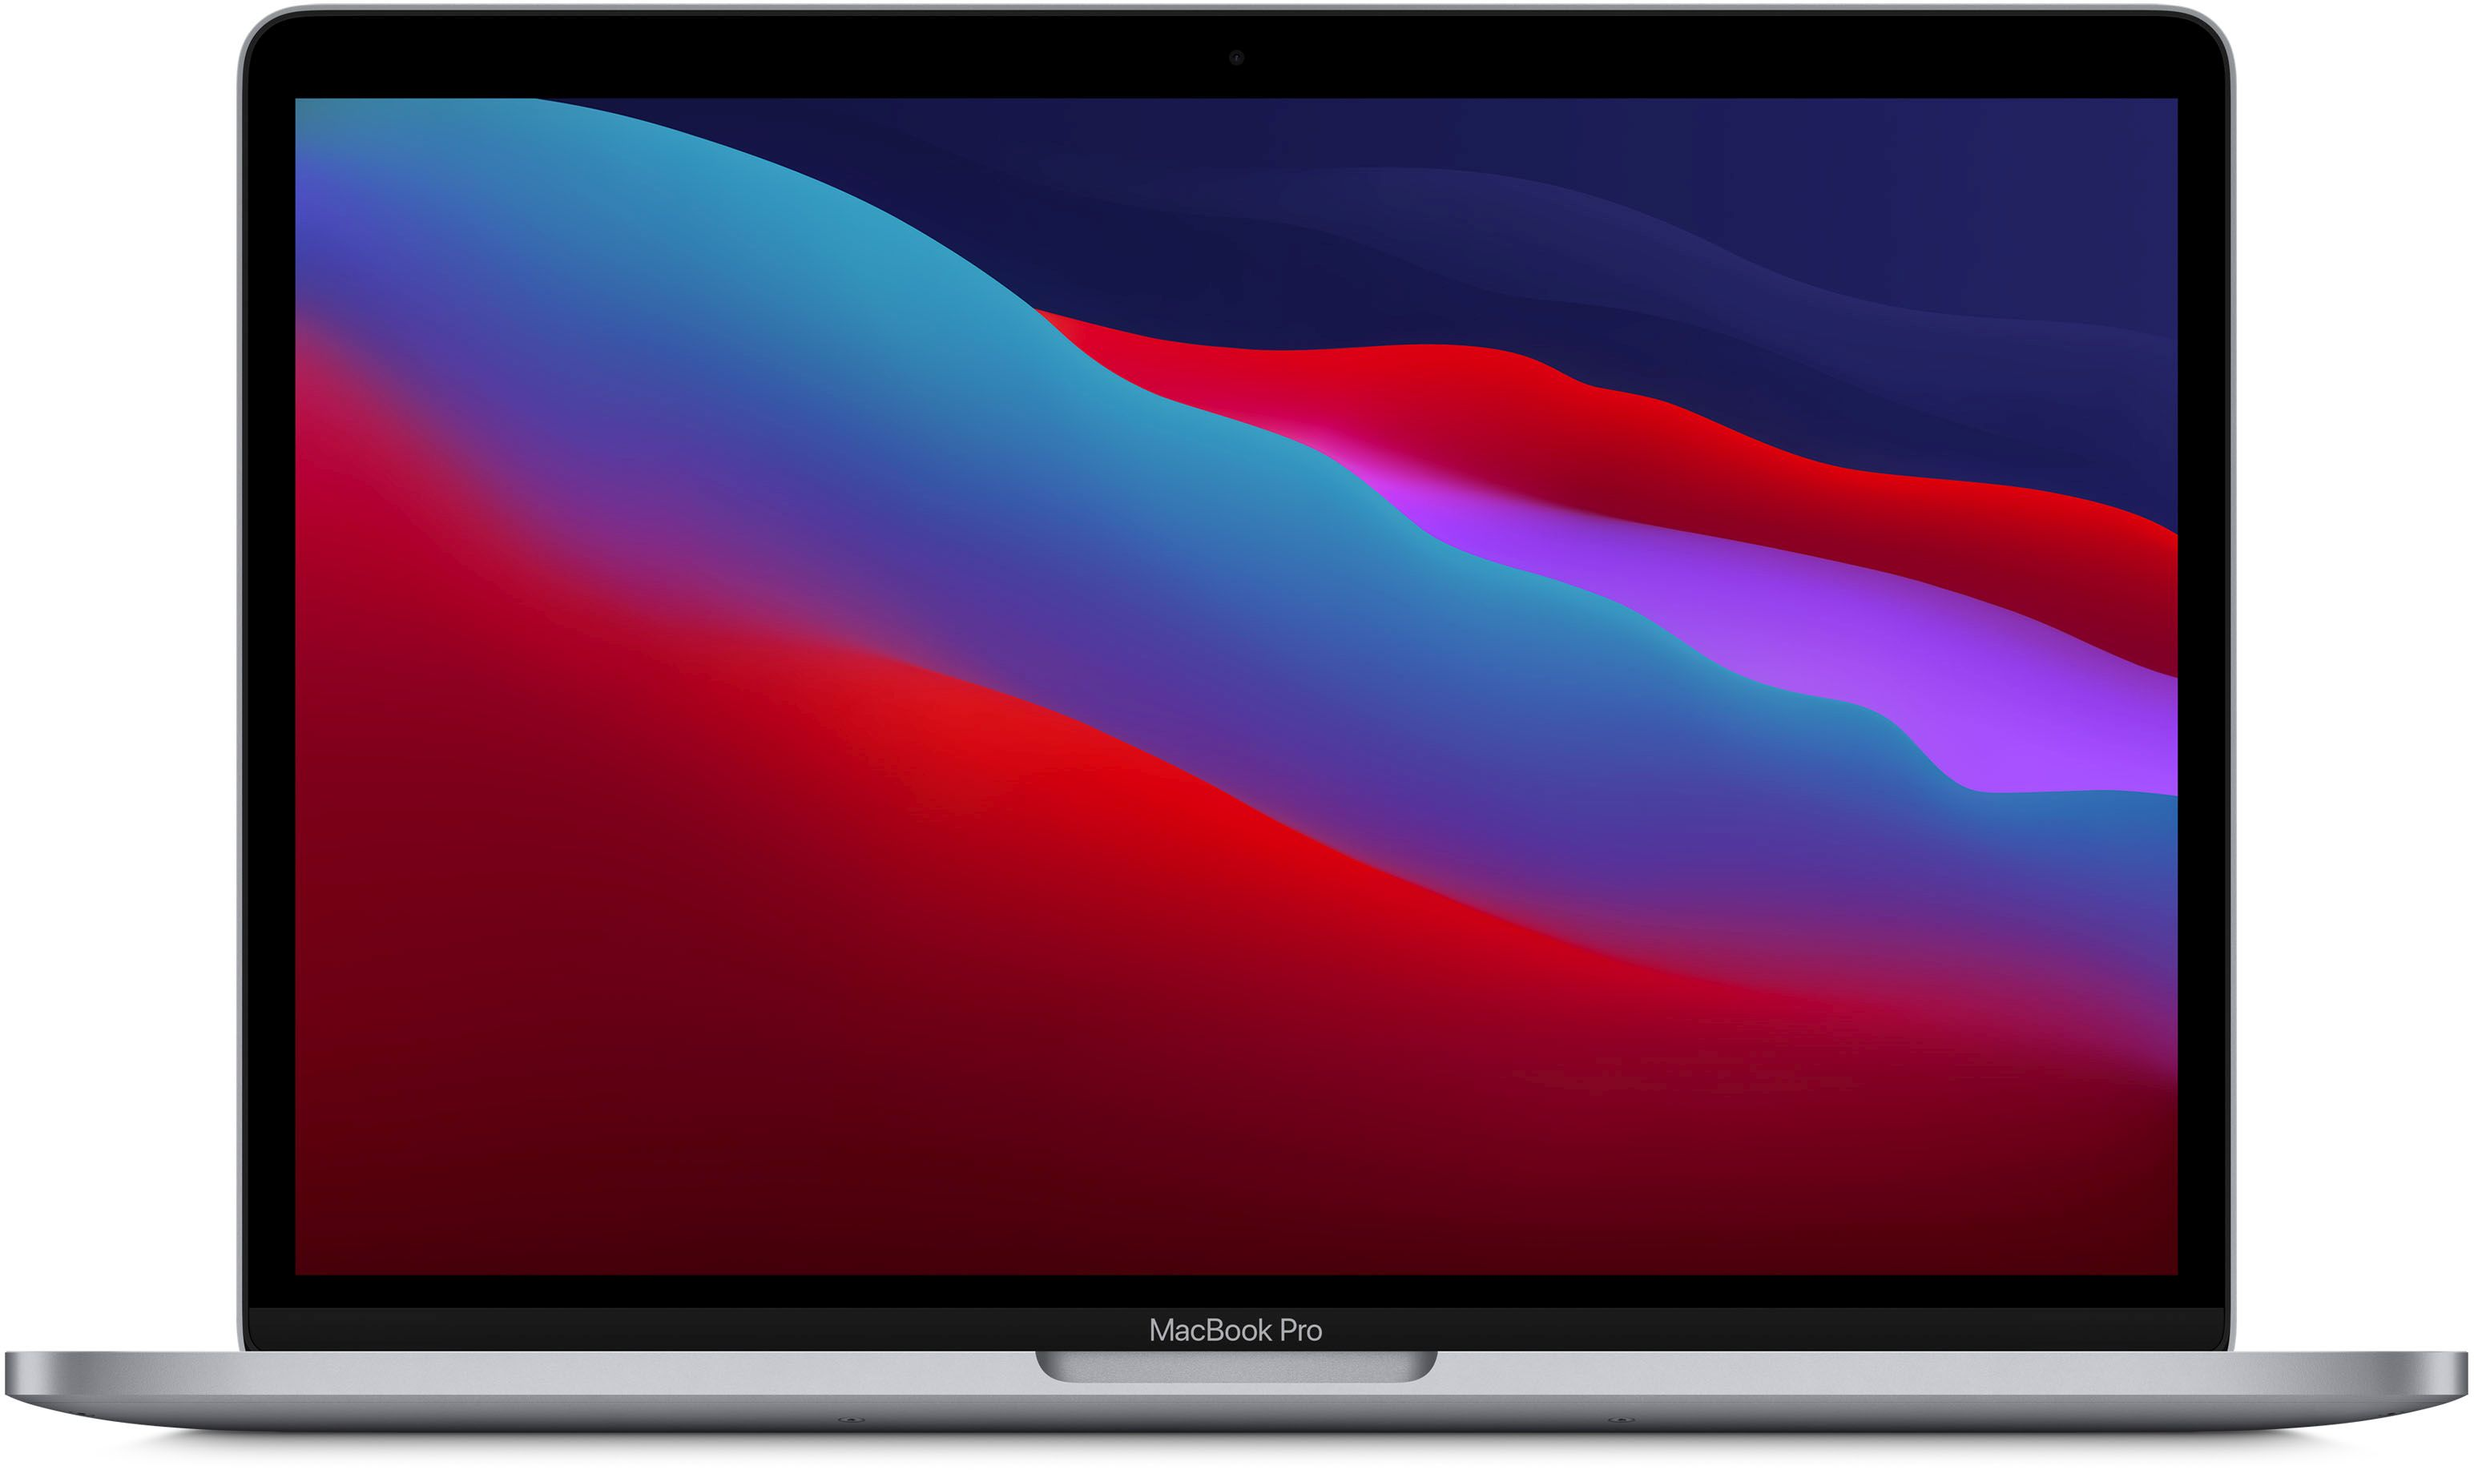
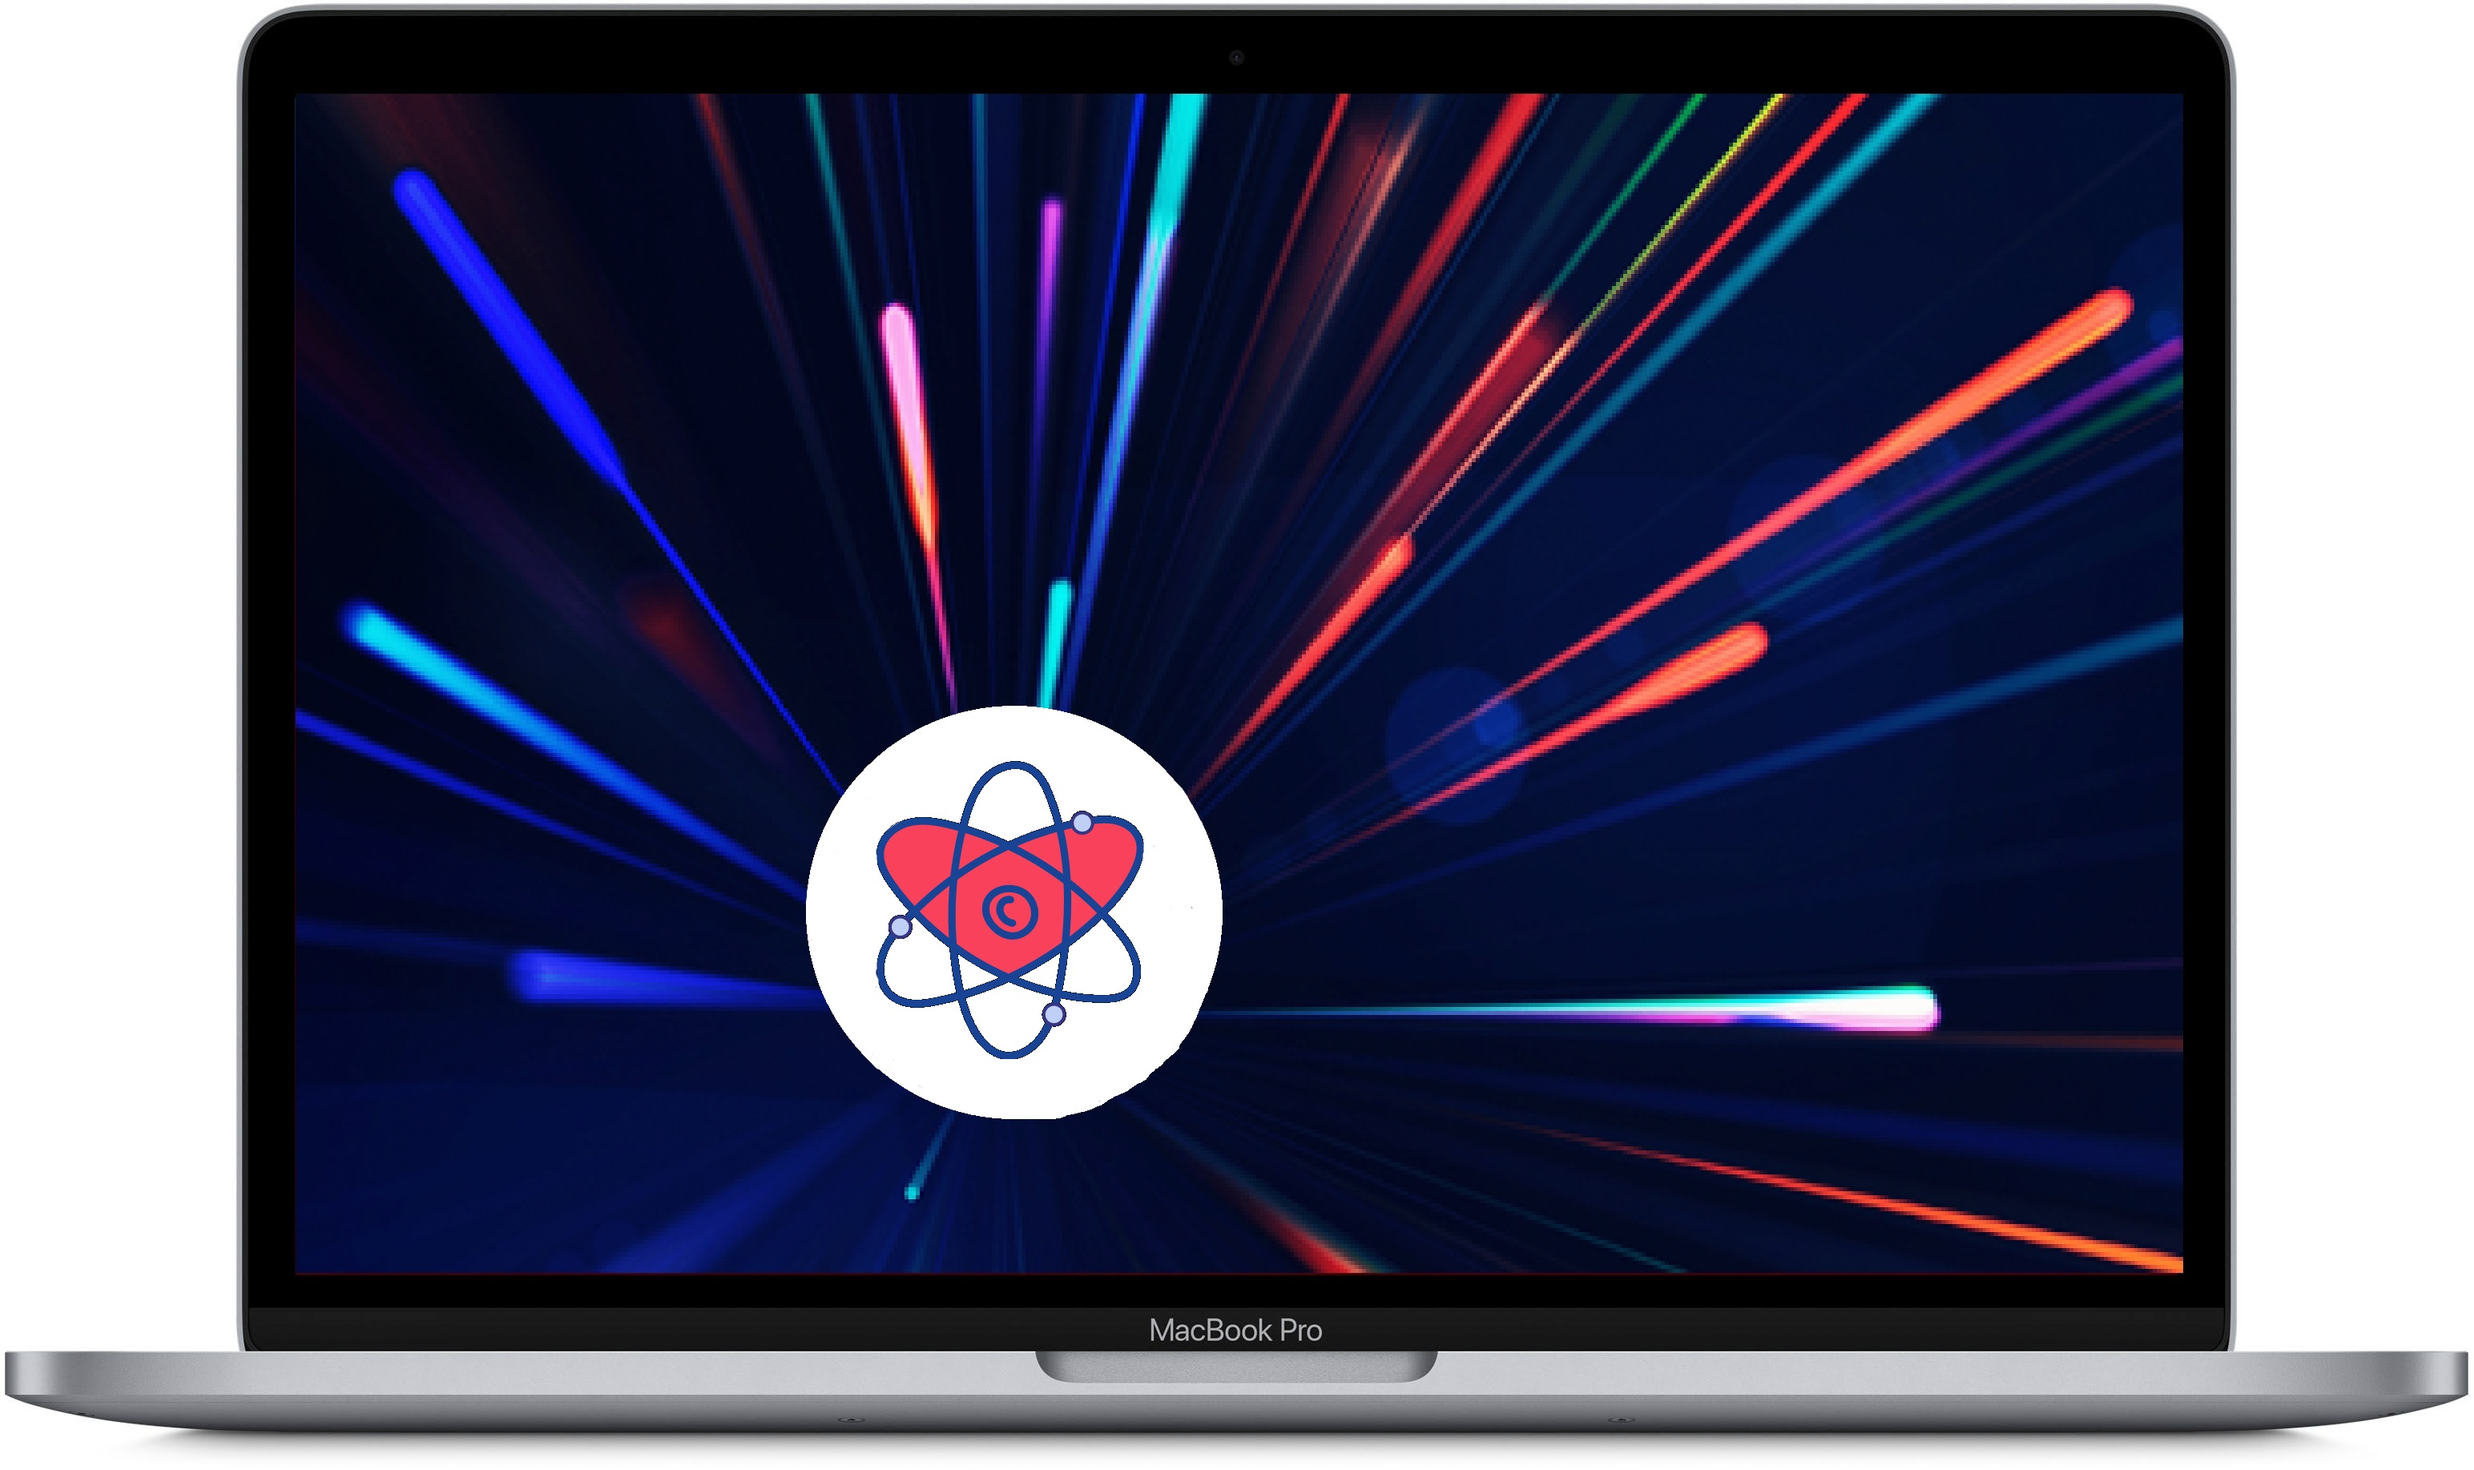
add beta demo

diff --git a/index.html b/index.html
@@ -59,6 +59,11 @@
         <img src="pictures/curse.png" 
         alt="Кривая" 
         style="position:fixed; bottom:0; left:0; width:20%; height:35%;">
+        <img src="pictures/curse-2.png" 
+        alt="Кривая"
+        style="width: 18%; height: 35%; position:absolute;
+        top:0;
+        right:0;">
     </section>
 
     
@@ -215,13 +220,20 @@
     </section>
 
     <section class="slide">
-        <img src="pictures/macbook.jpg" alt="macbook" 
-        style="width: 75%; height: 75%; display: block;
-        margin-left: auto;
-        margin-right: auto;"">
-        <iframe src="https://www.youtube.com/embed/7f5VTVnd_7Q" title="YouTube video player" frameborder="0"
-            allow="accelerometer; autoplay; clipboard-write; encrypted-media; gyroscope; picture-in-picture"
-            allowfullscreen></iframe>
+        <a href="https://youtu.be/9r67l8yzrfM">
+            <img src="pictures/macbook.jpg" alt="macbook" 
+             style="width: 80%; height: 80%; display: block;
+             margin-left: auto;
+             margin-right: auto;">
+        </a>
+        <img src="pictures/curse.png" 
+        alt="Кривая" 
+        style="position:fixed; bottom:0; left:0; width:13%; height:25%;">
+        <img src="pictures/curse-2.png" 
+        alt="Кривая"
+        style="width: 18%; height: 35%; position:absolute;
+        top:0;
+        right:0;">
     </section>
 
     <section class="slide">
@@ -277,7 +289,8 @@
 
     <section class="slide">
         <h2 class="shout">
-            <a href="https://forms.gle/HQB1PT5EEca4QKmq8">Обратная<br>связь</a>
+            <a href="https://forms.gle/HQB1PT5EEca4QKmq8">
+                Обратная<br>связь</a>
         </h2>
     </section>
 
